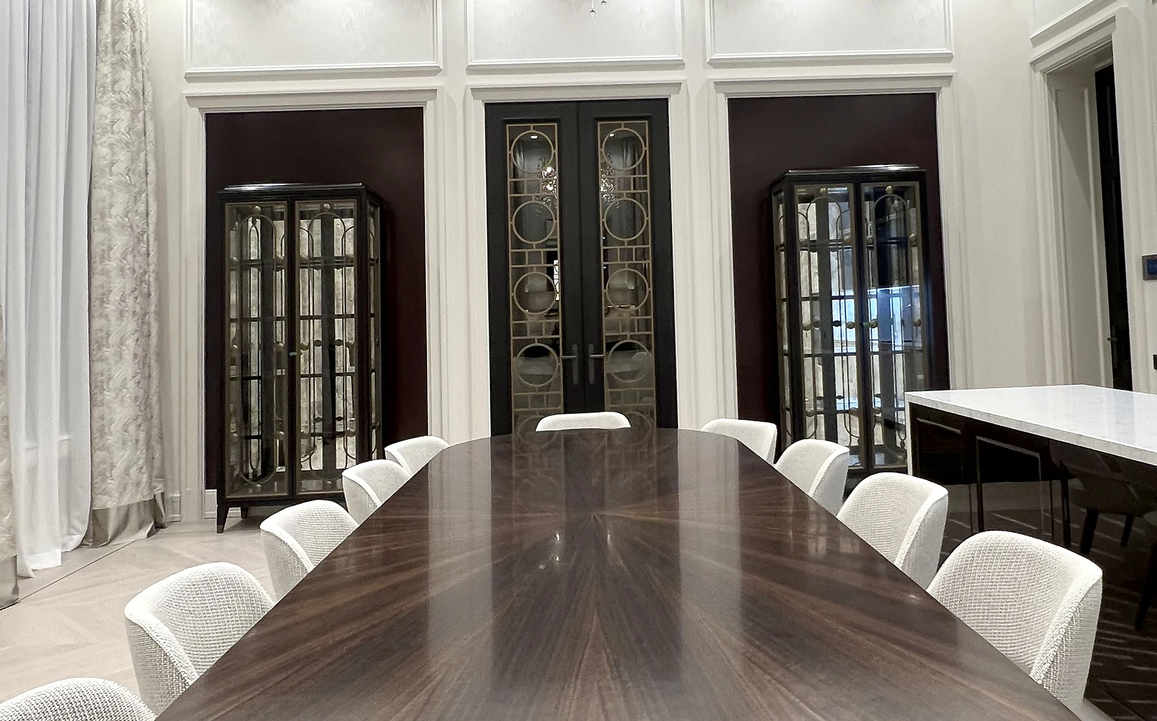
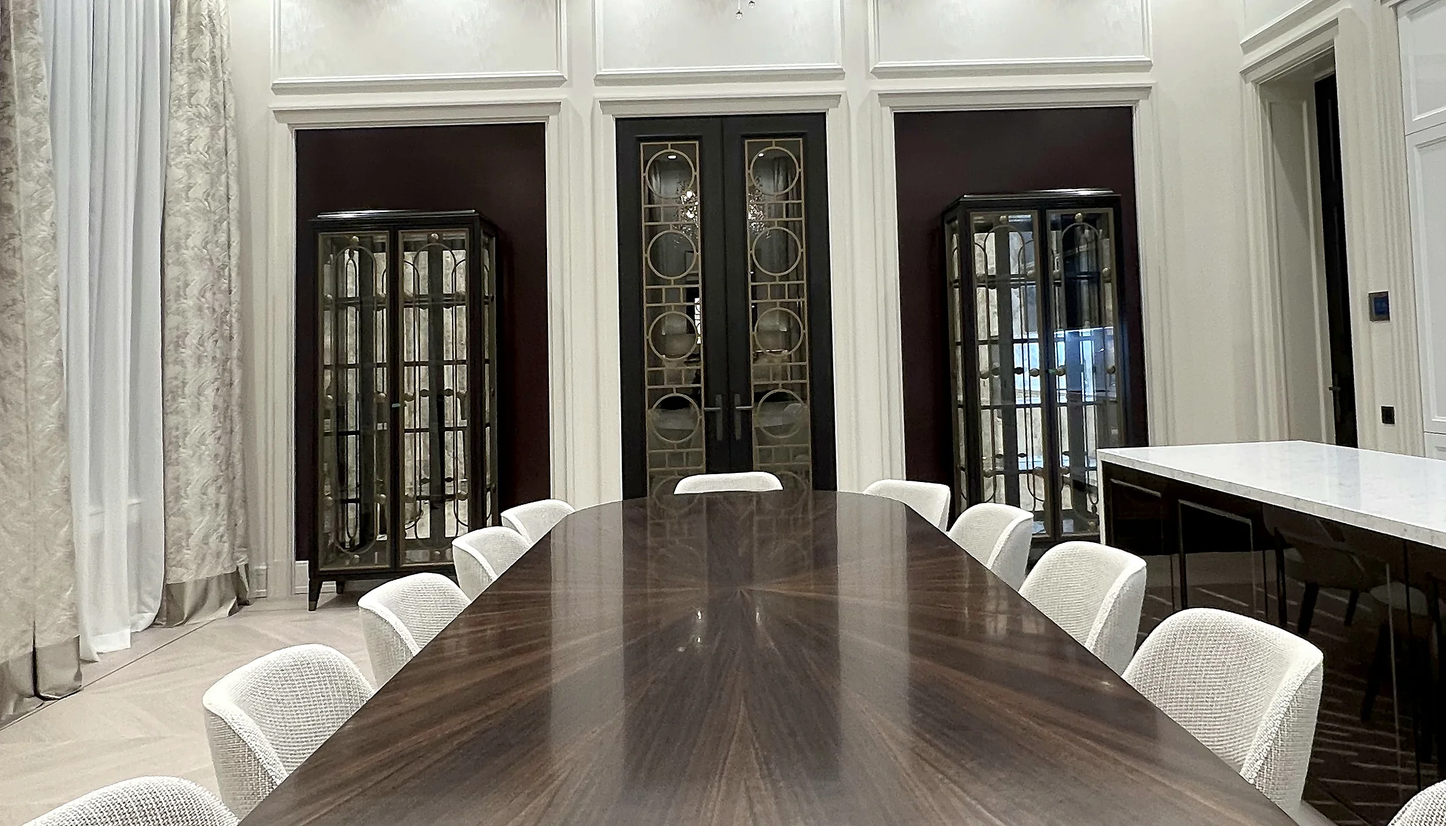
Этап 1: исправления и ответы по ТЗ №1

diff --git a/dizajn-v4/index.html b/dizajn-v4/index.html
@@ -206,8 +206,8 @@ if(document.readyState==='complete')setTimeout(go,300);else addEventListener('lo
 <section class="x-hero" id="top">
   <div class="x-hero-stick">
     <picture class="x-hero-photo">
-        <source media="(max-width:760px)" srcset="/dizajn-v4/img/obekty/dom-stolovaya-hero-tall-m.webp 720w, /dizajn-v4/img/obekty/dom-stolovaya-hero-tall.webp 1100w" sizes="100vw">
-        <img src="/dizajn-v4/img/obekty/dom-stolovaya-hero.webp" srcset="/dizajn-v4/img/obekty/dom-stolovaya-hero-m.webp 1000w, /dizajn-v4/img/obekty/dom-stolovaya-hero.webp 1920w" sizes="100vw" alt="Столовая в загородном доме после ремонта" width="1920" height="1165" fetchpriority="high">
+        <source media="(max-width:760px)" srcset="/dizajn-v4/img/obekty/dom-stolovaya-hero-tall-m.webp 900w, /dizajn-v4/img/obekty/dom-stolovaya-hero-tall.webp 1400w" sizes="100vw">
+        <img src="/dizajn-v4/img/obekty/dom-stolovaya-hero-l.webp" srcset="/dizajn-v4/img/obekty/dom-stolovaya-hero-m.webp 1000w, /dizajn-v4/img/obekty/dom-stolovaya-hero-l.webp 1600w, /dizajn-v4/img/obekty/dom-stolovaya-hero.webp 2400w" sizes="100vw" alt="Столовая в загородном доме после ремонта" width="2400" height="1371" fetchpriority="high">
       </picture>
     <h1 class="x-h1">
       <span class="x-mask"><span class="x-word" data-letters>Ремонт</span></span>
